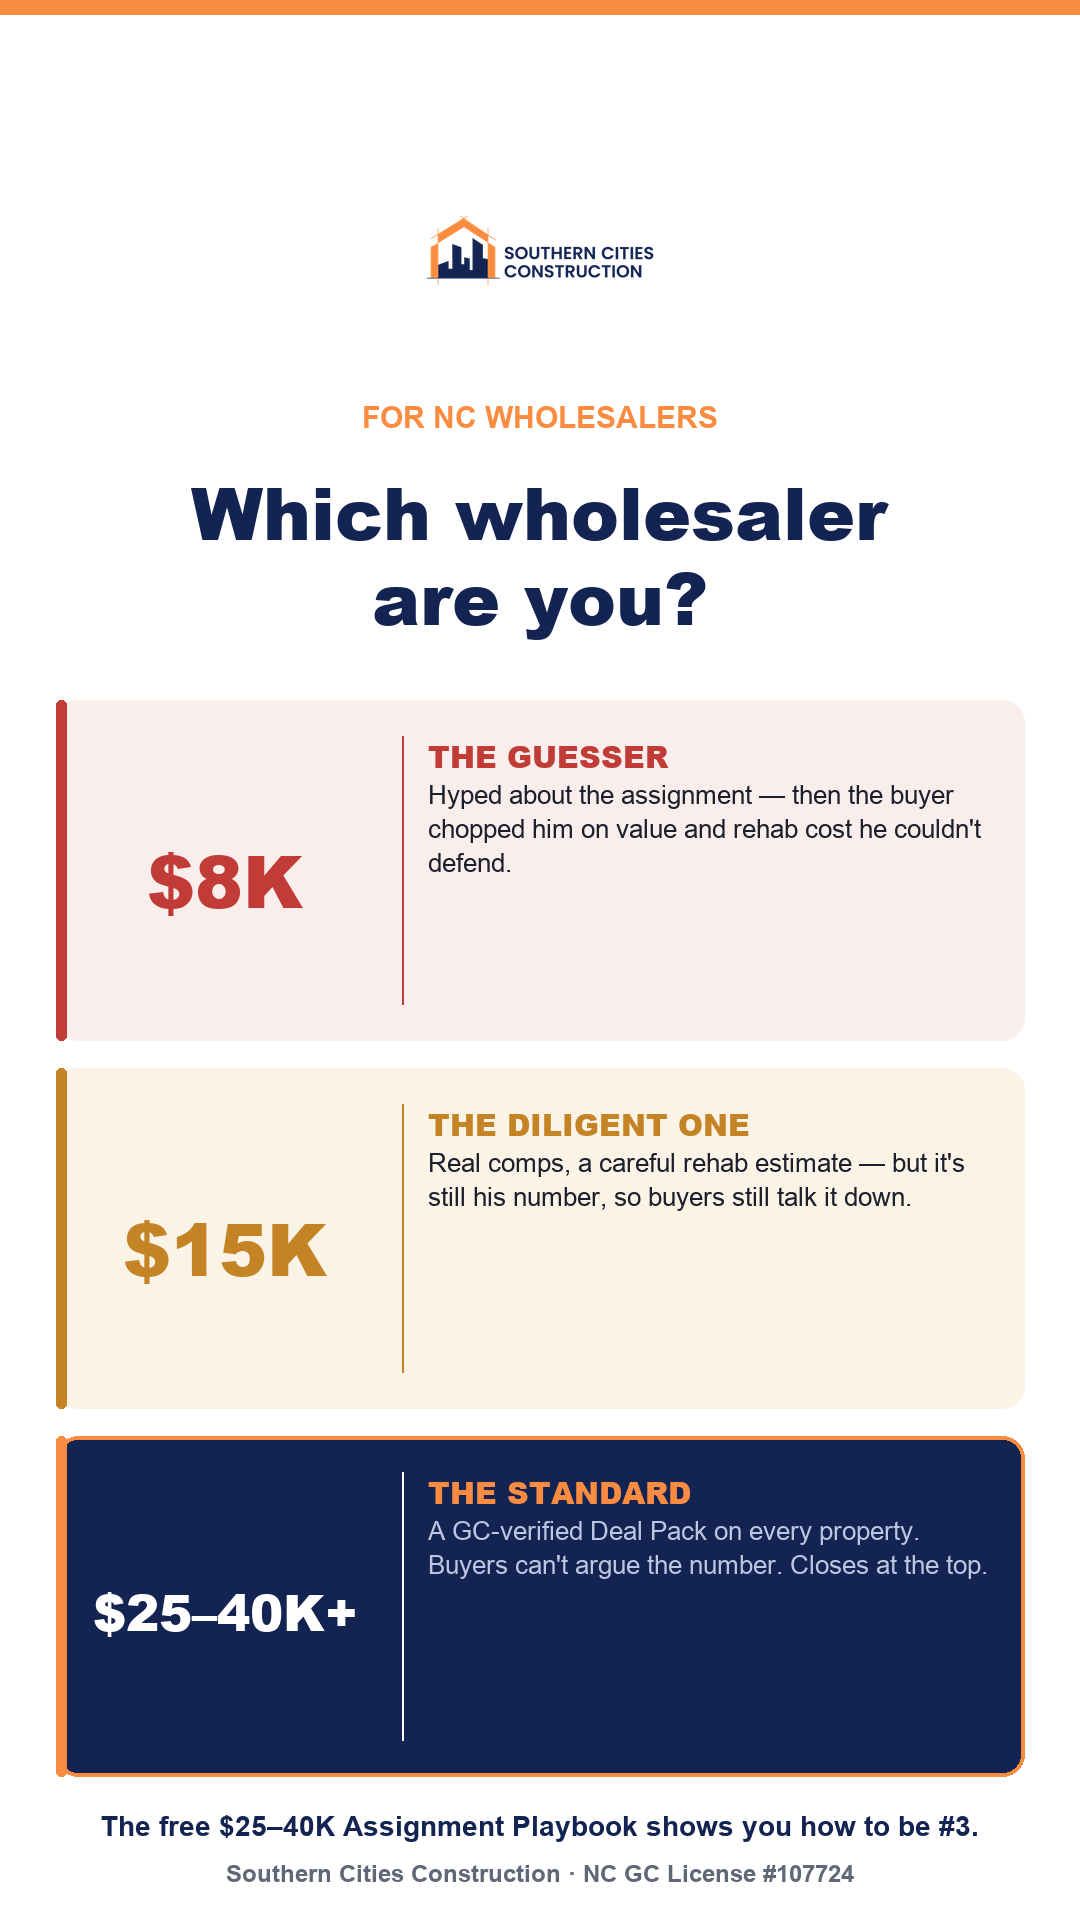
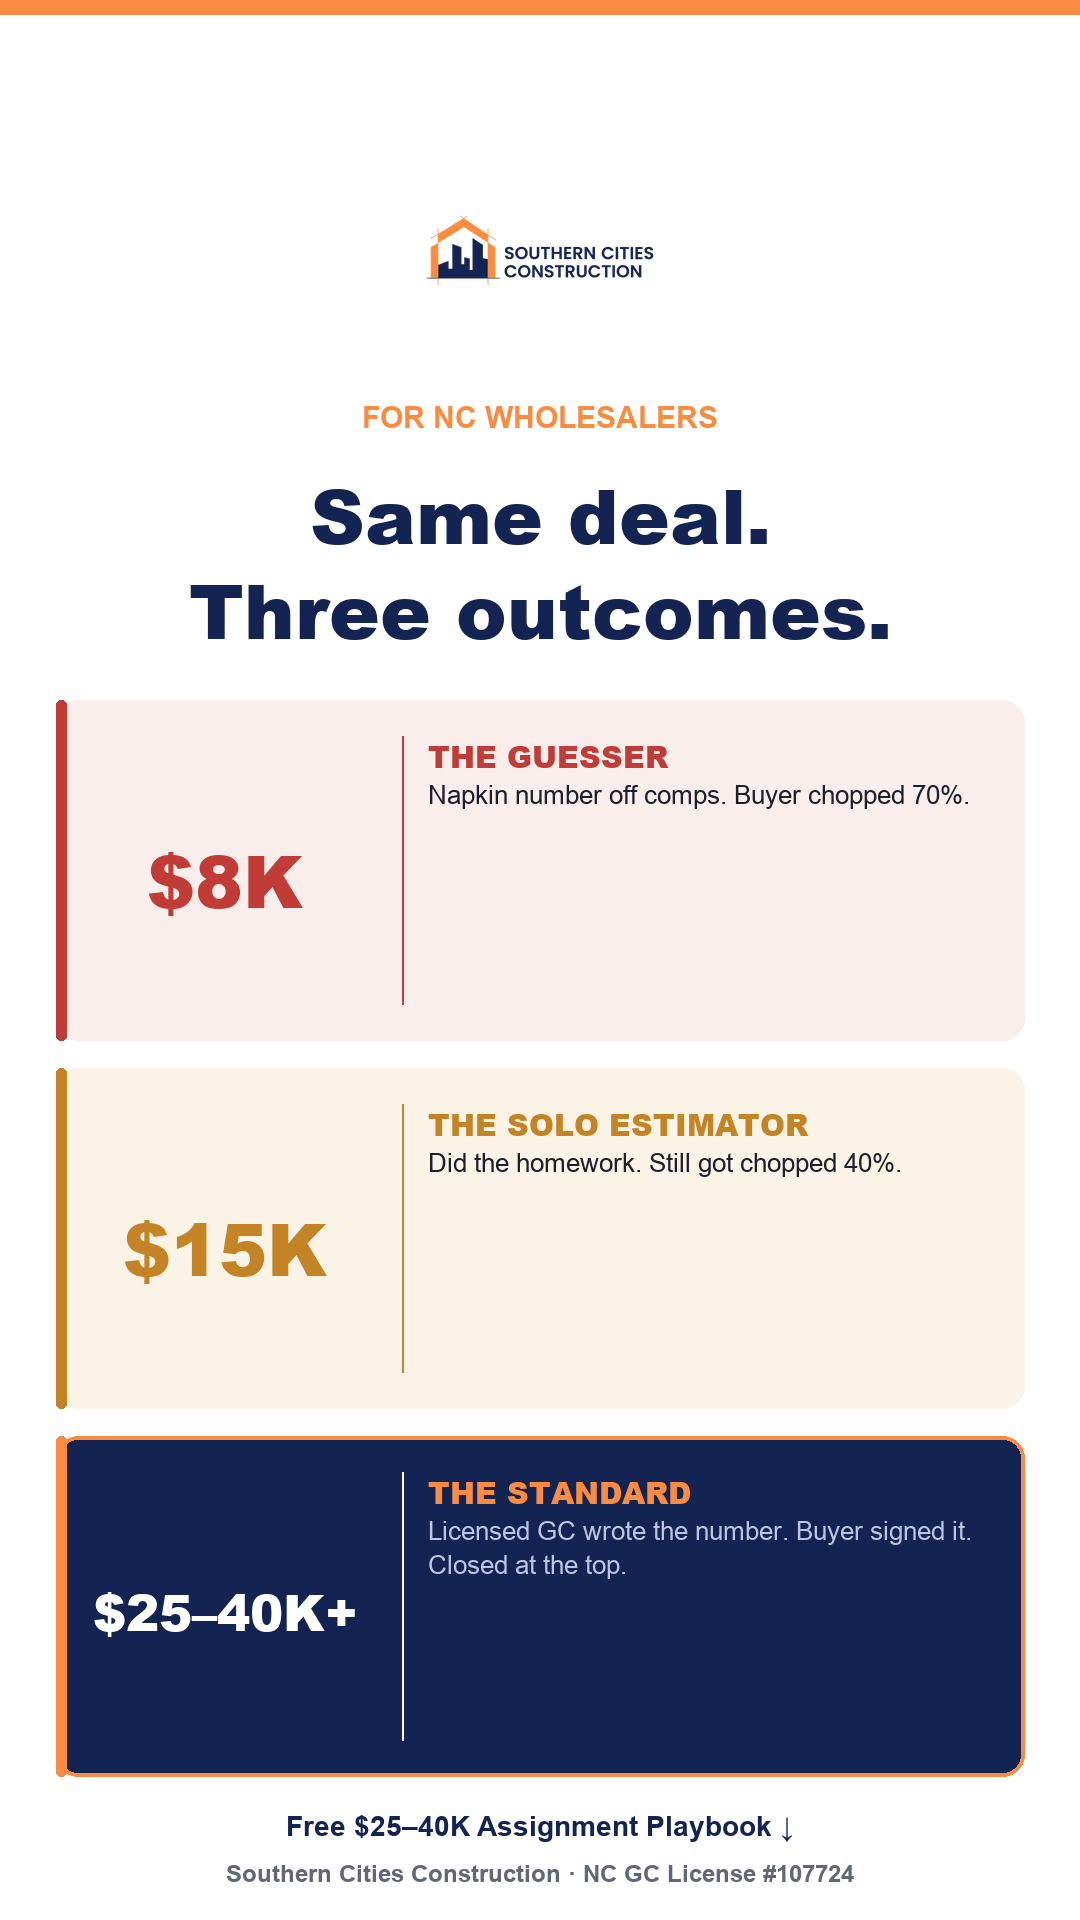
Sharpen wholesaler-tiers copy: punchier headline + visceral tier descriptions
- Headline: 'Which wholesaler are you?' -> 'Same deal. Three outcomes.'
- $8K Guesser: 'Napkin number off comps. Buyer chopped 70%.'
- $15K Solo Estimator: 'Did the homework. Still got chopped 40%.'
- $25-40K+ Standard: 'Licensed GC wrote the number. Buyer signed it. Closed at the top.'
- Footer: cleaner arrow CTA instead of clunky prose

diff --git a/scripts/build-wholesaler-tiers.py b/scripts/build-wholesaler-tiers.py
@@ -1,6 +1,6 @@
 #!/usr/bin/env python3
 """
-"Which wholesaler are you?" — 3-tier avatar ladder.
+"Same deal. Three outcomes." — 3-tier avatar ladder.
 $8K Guesser -> $15K Diligent -> $25-40K+ The Standard (GC-verified Deal Pack).
 
 Generates BOTH 1:1 (1080x1080) for Feed and 9:16 (1080x1920) for Stories/Reels.
@@ -51,13 +51,13 @@ def wrap(d, s, f, mw):
 # Tier definitions — used by both renders
 TIERS = [
     {"amt": "$8K", "label": "THE GUESSER",
-     "line": "Hyped about the assignment — then the buyer chopped him on value and rehab cost he couldn't defend.",
+     "line": "Napkin number off comps. Buyer chopped 70%.",
      "bg": (250, 238, 236), "accent": RED, "amt_color": RED, "label_color": RED, "line_color": INK, "win": False},
-    {"amt": "$15K", "label": "THE DILIGENT ONE",
-     "line": "Real comps, a careful rehab estimate — but it's still his number, so buyers still talk it down.",
+    {"amt": "$15K", "label": "THE SOLO ESTIMATOR",
+     "line": "Did the homework. Still got chopped 40%.",
      "bg": (250, 243, 230), "accent": AMBER, "amt_color": AMBER, "label_color": AMBER, "line_color": INK, "win": False},
     {"amt": "$25–40K+", "label": "THE STANDARD",
-     "line": "A GC-verified Deal Pack on every property. Buyers can't argue the number. Closes at the top.",
+     "line": "Licensed GC wrote the number. Buyer signed it. Closed at the top.",
      "bg": NAVY, "accent": ORANGE, "amt_color": WHITE, "label_color": ORANGE, "line_color": MUTED_NAVY, "win": True},
 ]
 
@@ -114,7 +114,7 @@ def build_square():
     eb = font(BOLD, 25)
     d.text((cx - tw(d, "FOR NC WHOLESALERS", eb) / 2, 168), "FOR NC WHOLESALERS", font=eb, fill=ORANGE)
     fh = font(BLACK, 52)
-    d.text((cx - tw(d, "Which wholesaler are you?", fh) / 2, 208), "Which wholesaler are you?", font=fh, fill=NAVY)
+    d.text((cx - tw(d, "Same deal. Three outcomes.", fh) / 2, 208), "Same deal. Three outcomes.", font=fh, fill=NAVY)
 
     # tier bands
     top = 300
@@ -126,7 +126,7 @@ def build_square():
 
     # footer + license
     ff = font(BOLD, 24)
-    foot = "The free $25–40K Assignment Playbook shows you how to be #3."
+    foot = "Free $25–40K Assignment Playbook ↓"
     d.text((cx - tw(d, foot, ff) / 2, H - 86), foot, font=ff, fill=NAVY)
     fl2 = font(BOLD, 21)
     lic = "Southern Cities Construction · NC GC License #107724"
@@ -155,9 +155,9 @@ def build_vertical():
     d.text((cx - tw(d, "FOR NC WHOLESALERS", eb) / 2, 400), "FOR NC WHOLESALERS", font=eb, fill=ORANGE)
 
     # headline — split across two lines for impact
-    fh = font(BLACK, 72)
-    d.text((cx - tw(d, "Which wholesaler", fh) / 2, 460), "Which wholesaler", font=fh, fill=NAVY)
-    d.text((cx - tw(d, "are you?", fh) / 2, 545), "are you?", font=fh, fill=NAVY)
+    fh = font(BLACK, 76)
+    d.text((cx - tw(d, "Same deal.", fh) / 2, 460), "Same deal.", font=fh, fill=NAVY)
+    d.text((cx - tw(d, "Three outcomes.", fh) / 2, 555), "Three outcomes.", font=fh, fill=NAVY)
 
     # tier bands — bigger, more vertical room
     top = 700
@@ -169,7 +169,7 @@ def build_vertical():
 
     # footer + license (above Stories bottom UI overlay)
     ff = font(BOLD, 28)
-    foot = "The free $25–40K Assignment Playbook shows you how to be #3."
+    foot = "Free $25–40K Assignment Playbook ↓"
     d.text((cx - tw(d, foot, ff) / 2, H - 110), foot, font=ff, fill=NAVY)
     fl2 = font(BOLD, 24)
     lic = "Southern Cities Construction · NC GC License #107724"
